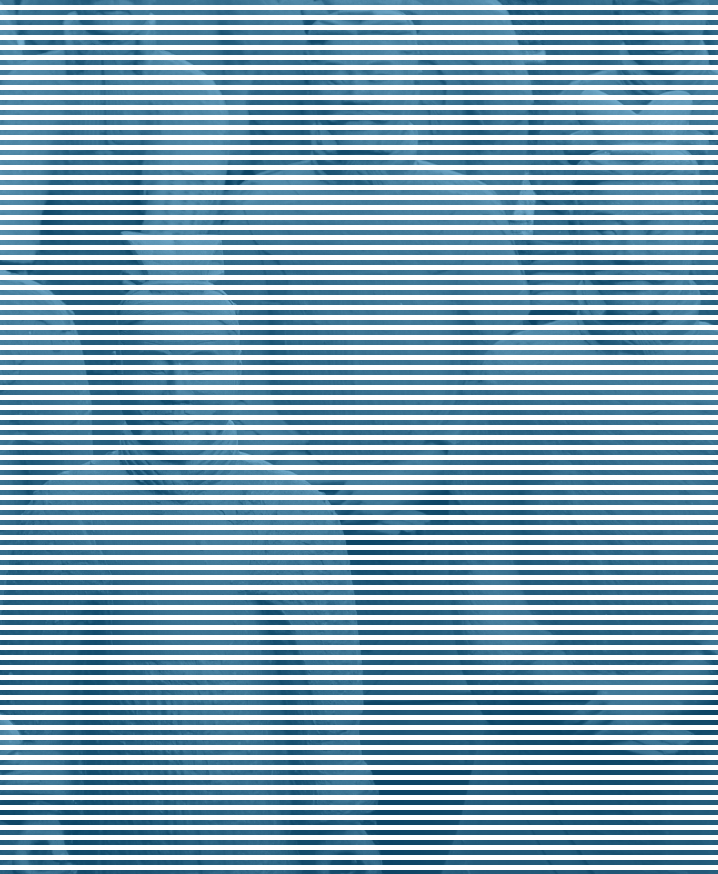
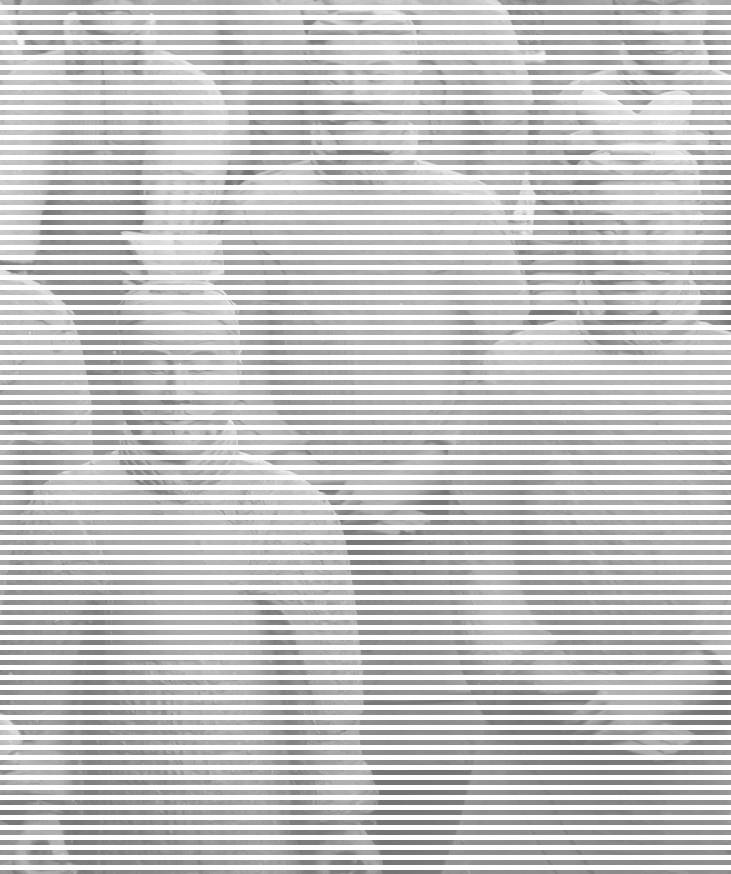
add new themes and fix change slide transition

diff --git a/assets/scss/common/_themes.scss b/assets/scss/common/_themes.scss
@@ -55,90 +55,74 @@
   }
 }
 
-.blue-theme{
-  background:#0071B0;
+.yellow-theme{
+  background:#F4D560;
   & .menu__underlay{
-    background: darken(#0071B0, 5%);
-  }
-
-  & .slider-btn-next{
-    &__background{
-      background:  darken(#0071B0, 5%);;
-    }
-    &:hover .slider-btn-next__background{
-      background: darken(#0071B0, 10%);
-    }
-  }
-}
-
-.purple-theme{
-  background:#47466C;
-  & .menu__underlay{
-    background: darken(#47466C, 5%);
+    background: #D9BC4E;
   }
   & .slider-btn-next{
     &__background{
-      background:  darken(#47466C, 5%);;
+      background: #D9BC4E
     }
     &:hover .slider-btn-next__background{
-      background: darken(#47466C, 10%);
+      background: darken(#D9BC4E, 5%);
     }
   }
-}
-
-.dark-theme{
-  background: #2C2A2A;
   & .header {
-    color: $white;
+    color: $black;
   }
   & .header__logo path{
-    fill: $white;
+    fill: $black;
   }
   & .header-nav__link a{
-    color: $white;
+    color: $black;
   }
   & .slide__title {
-    color: $white;
+    color: $black;
   }
   & .slide__subtitle {
-    color: $white;
+    color: $black;
   }
   & .menu__btn span{
-    border-bottom: 2px solid $white;
-  }
-  & .menu__underlay{
-    background: darken(#2C2A2A, 5%);
+    border-bottom: 2px solid $black;
   }
   & .menu-item__link{
-    color: $white;
+    color: $black;
   }
   & .menu-divider__line{
-    background: $white;
+    background: $black;
   }
   & .menu__social-item svg path {
-    fill: $white;
+    fill: $black;
   }
   & .slide{
-    color: $white;
+    color: $black;
   }
   & .slide__link{
-    color: $white;
+    color: $black;
     &::after{
-      background:$white;
+      background: $black;
     }
   }
   & .slide__nav::before{
-    background: $white;
+    background: $black;
+  }
+  & .slider-mouse svg path{
+    stroke: $black;
+  }
+}
+
+.red-theme{
+  background:#EC6262;
+  & .menu__underlay{
+    background: #AE4C4C;
   }
   & .slider-btn-next{
     &__background{
-      background: #2C2A2A;
+      background: #AE4C4C
     }
     &:hover .slider-btn-next__background{
-      background: darken(#2C2A2A, 10%);
+      background: darken(#AE4C4C, 5%)
     }
-  }
-  & .slider-mouse svg path{
-    stroke: $white;
   }
 }

diff --git a/assets/scss/components/_slider.scss b/assets/scss/components/_slider.scss
@@ -7,8 +7,9 @@
     height: 800px;
     z-index: 5;
     transform: rotate(90deg);
+    visibility: hidden;
     transform-origin: bottom left;
-    transition: transform .6s .8s, width .5s;
+    transition: transform .6s .8s, width .5s, visibility .6s;
     &__background{
       transform: rotate(35deg);
       width: 100%;
@@ -69,6 +70,9 @@
     transform: translateY(100px);
     z-index: 99;
     transition: transform .5s .9s, opacity .5s .9s;
+    & svg path {
+      transition: stroke $t-theme-duration;
+    }
     &__wheel{
       animation: scroll 2s ease infinite;
     }
@@ -97,9 +101,11 @@
     font-size: 90px;
     font-weight: 800;
     line-height: 80px;
+    transition: color $t-theme-duration;
   }
   &__subtitle{
     pointer-events: none;
+    transition: color $t-theme-duration;
     font-size: 20px;
     font-weight: 300;
     letter-spacing: 0.06rem;
@@ -117,6 +123,7 @@
     width: 380px;
     &::before{
       content: '';
+      transition: background-color $t-theme-duration;
       position: absolute;
       width: 1px;
       height: 200px;
@@ -138,6 +145,7 @@
     text-transform: uppercase;
     color: $white;
     position: relative;
+    transition: color $t-theme-duration;
     &::after{
       content: '';
       position: absolute;
@@ -152,7 +160,6 @@
       width: 100%;
     }
     &_active{
-      cursor: default;
       font-weight: 600;
       font-size: 24px;
       &:hover::after{
@@ -169,6 +176,7 @@
     position: relative;
     bottom: -20px;
     transform-origin: left top;
+    transition: color $t-theme-duration;
   }
   &-photo{
     position: absolute;
@@ -176,16 +184,16 @@
     bottom: 0;
     max-height: 750px;
     transform: translateY(50%);
-    transition: transform .5s, opacity .5s;
+    transition: transform $t-theme-duration, opacity .5s;
     opacity: 0;
     &__overlay{
       position: absolute;
       right: 0;
       transition: transform .5s;
       top: -5px;
-      transform: translate(-10px, -10px);
+      transform: translate(-10px, 0);
       &:hover{
-        transform: translate(0);
+        transform: translate(0, 0);
       }
     }
   }

diff --git a/assets/scss/components/_header.scss b/assets/scss/components/_header.scss
@@ -18,7 +18,7 @@
       transform: translateY(-20px);
       opacity: 0;
       & path {
-        transition-duration: $t-link-duration;
+        transition: fill $t-theme-duration;
       }
       &:hover > path{
         fill: $t-link-color;
@@ -44,7 +44,7 @@
           font-weight: 300;
           letter-spacing: 0.06rem;
           text-decoration: none;
-          transition: opacity .25s;
+          transition:  color $t-theme-duration, opacity .25s;
         }
         &:first-child{
           margin-left: 0;

diff --git a/components/Sliders/MainSlider.vue b/components/Sliders/MainSlider.vue
@@ -163,8 +163,8 @@ export default {
             const halfSlideStep = slideStep / 2;
 
             changeSlideOnProgress(1, 'beige-theme');
-            changeSlideOnProgress(2, 'blue-theme');
-            changeSlideOnProgress(3, 'purple-theme');
+            changeSlideOnProgress(2, 'yellow-theme');
+            changeSlideOnProgress(3, 'red-theme');
 
             function changeSlideOnProgress(slideIndex, themeClass){
               if(progress > halfSlideStep){

diff --git a/assets/scss/common/_transitions.scss b/assets/scss/common/_transitions.scss
@@ -13,15 +13,14 @@
   }
 
   & .h-slider.active{
+    & .slider-btn-next{
+      visibility: visible;
+      transform: rotate(0deg);
+    }
     & .slider-btn-next__content {
       transform: translateY(0);
       transition-duration: 1s;
       opacity: 1;
-    }
-    & .slider {
-      &-btn-next{
-        transform: rotate(0deg);
-      }
     }
   }
   & .h-slider:not(.active){

diff --git a/assets/scss/components/_menu.scss b/assets/scss/components/_menu.scss
@@ -15,7 +15,7 @@
     & span{
       display: block;
       transform: rotate(0);
-      transition: transform .6s;
+      transition: transform .6s, border-bottom $t-theme-duration;
       width: 100%;
       height: 2px;
       border-bottom: 2px solid $white;

diff --git a/assets/scss/common/_vars.scss b/assets/scss/common/_vars.scss
@@ -2,4 +2,4 @@ $white: #F2EFE8;
 $black: #2C2A2A;
 $t-link-duration: 0.3s;
 $t-link-color: transparentize($white, .5);
-$t-theme-duration: .75s;
+$t-theme-duration: 1s;
